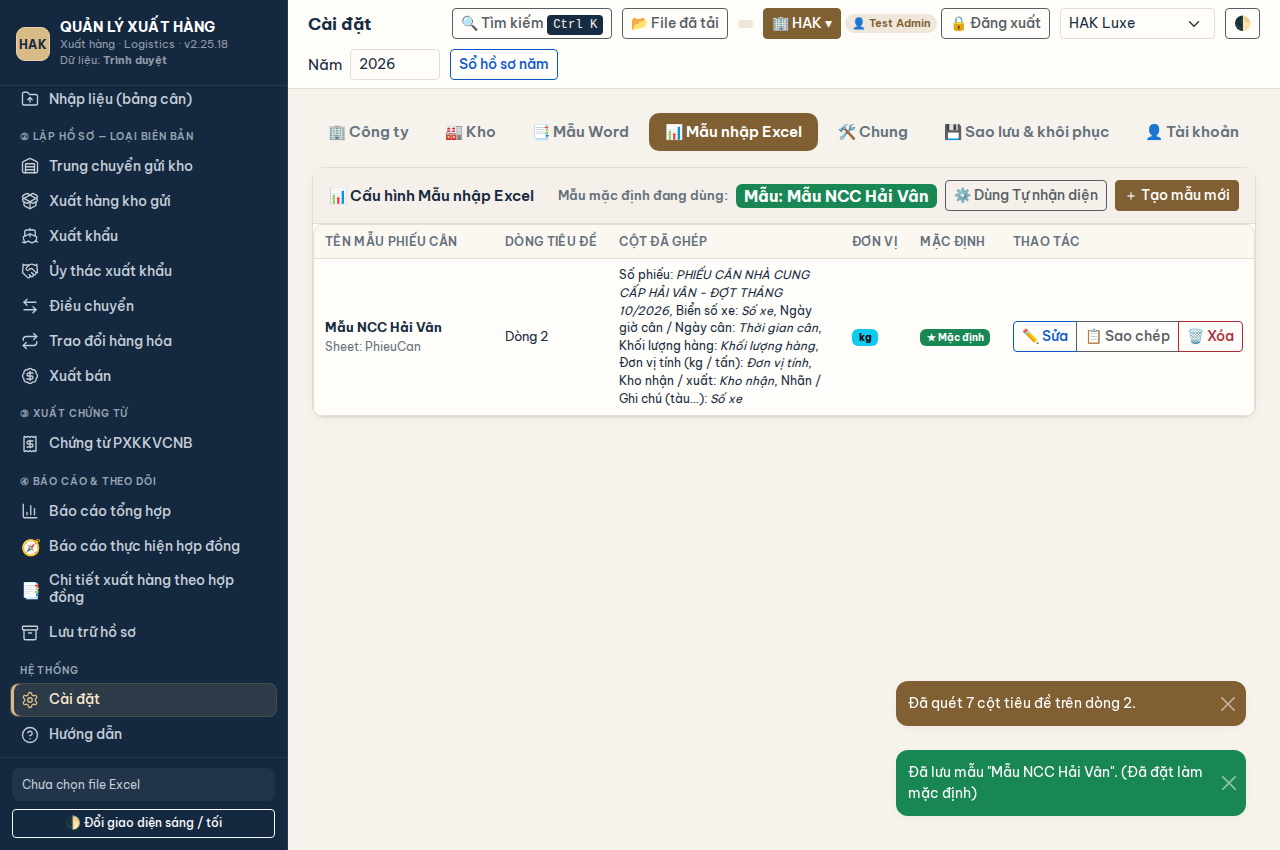
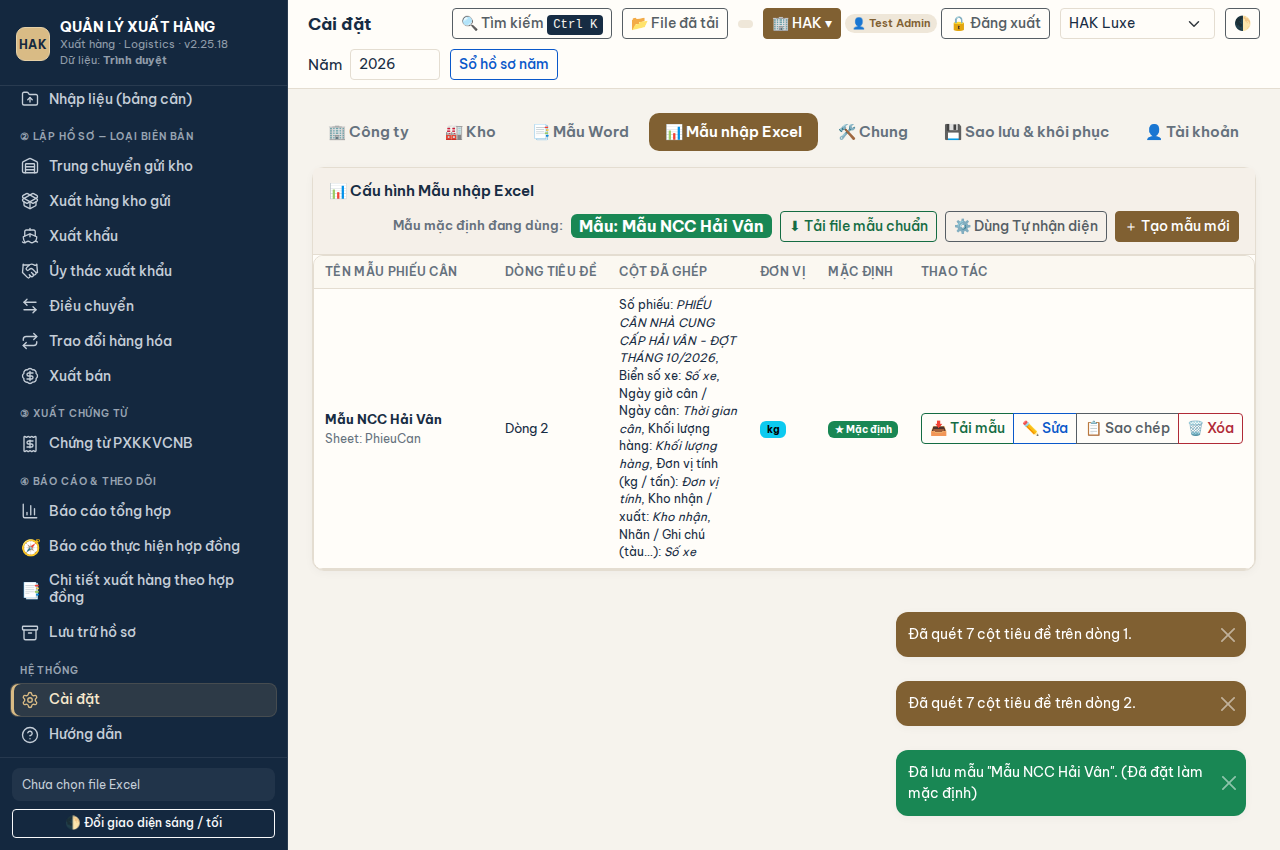
feat(excel): tự động xuất và tải file Excel mẫu (.xlsx) theo cấu hình mẫu mới

diff --git a/app/js/excel-template.js b/app/js/excel-template.js
@@ -396,7 +396,7 @@
         '            <th>Cột đã ghép</th>' +
         '            <th>Đơn vị</th>' +
         '            <th>Mặc định</th>' +
-        '            <th style="min-width:210px">Thao tác</th>' +
+        '            <th style="min-width:280px">Thao tác</th>' +
         '          </tr>' +
         '        </thead>' +
         '        <tbody id="tplTableBody">';
@@ -440,6 +440,9 @@
             '</td>' +
             '  <td>' +
             '    <div class="btn-group btn-group-sm">' +
+            '      <button class="btn btn-outline-success btn-tpl-dl" data-id="' +
+            t.id +
+            '" title="Tải file Excel mẫu (.xlsx) theo đúng các cột của mẫu này">📥 Tải mẫu</button>' +
             '      <button class="btn btn-outline-primary btn-tpl-edit" data-id="' +
             t.id +
             '" title="Sửa mẫu">✏ Sửa</button>' +
@@ -495,6 +498,18 @@
           const t = this.get(id);
           HAK.UI.toast('Đã đặt "' + (t ? t.name : '') + '" làm mẫu mặc định.', 'success');
           this.renderUI();
+        });
+      });
+
+      el.querySelectorAll('.btn-tpl-dl').forEach((btn) => {
+        btn.addEventListener('click', async () => {
+          const id = btn.getAttribute('data-id');
+          try {
+            await this.downloadTemplateFile(id);
+            HAK.UI.toast('Đang tạo và tải file Excel mẫu...', 'success');
+          } catch (e) {
+            HAK.UI.toast('Lỗi tải file mẫu: ' + e.message, 'error');
+          }
         });
       });
 
@@ -702,8 +717,9 @@
         '    </div>' +
         '  </div>' +
         // Bước 4 & 5: Lưu & Đặt mặc định
-        '  <div class="d-flex align-items-center gap-2">' +
+        '  <div class="d-flex flex-wrap align-items-center gap-2">' +
         '    <button class="btn btn-primary" id="wizBtnSave" type="button">💾 Lưu mẫu</button>' +
+        '    <button class="btn btn-outline-success" id="wizBtnDownloadTpl" type="button" title="Tải file Excel mẫu (.xlsx) theo cấu hình các cột đang thiết lập">📥 Tải file mẫu này</button>' +
         '    <button class="btn btn-outline-secondary" id="wizBtnCancel" type="button">Hủy</button>' +
         '    <div id="wizSaveMsg" class="small ms-2"></div>' +
         '  </div>' +
@@ -783,6 +799,19 @@
       if (btnSave) {
         btnSave.addEventListener('click', () => {
           this.saveWizard();
+        });
+      }
+
+      const btnDownloadTpl = body.querySelector('#wizBtnDownloadTpl');
+      if (btnDownloadTpl) {
+        btnDownloadTpl.addEventListener('click', async () => {
+          const cfg = this.getWizardConfig();
+          try {
+            await this.downloadTemplateFile(cfg);
+            HAK.UI.toast('Đang tạo và tải file Excel mẫu...', 'success');
+          } catch (e) {
+            HAK.UI.toast('Lỗi tải file mẫu: ' + e.message, 'error');
+          }
         });
       }
 
@@ -1061,6 +1090,215 @@
       } catch (err) {
         HAK.UI.toast('Không thể lưu: ' + err.message, 'error');
       }
+    },
+
+    buildTemplateWorkbook(template) {
+      const X = root.XLSX;
+      if (!X || !X.utils) throw new Error('Thư viện XLSX chưa được nạp.');
+
+      const tpl = template || {};
+      const sheetTitle = (tpl.sheet || 'BANG CAN').trim() || 'BANG CAN';
+      const headerRowIdx = Math.max(1, parseInt(tpl.headerRow, 10) || 1);
+      const isTan = tpl.fallbackUnit === 'tan';
+      const unitStr = isTan ? 'tấn' : 'kg';
+
+      const headerNames = tpl.headerNames || {};
+      const columns = tpl.columns || {};
+      const mappedEntries = Object.entries(headerNames).filter(([, name]) => name && String(name).trim());
+
+      let maxColIdx = -1;
+      mappedEntries.forEach(([key]) => {
+        if (typeof columns[key] === 'number' && columns[key] >= 0) {
+          if (columns[key] > maxColIdx) maxColIdx = columns[key];
+        }
+      });
+
+      const headerRowArr = [];
+      if (maxColIdx >= 0) {
+        for (let c = 0; c <= maxColIdx; c++) headerRowArr.push('');
+        mappedEntries.forEach(([key, name]) => {
+          const col = columns[key];
+          if (typeof col === 'number' && col >= 0) {
+            headerRowArr[col] = String(name).trim();
+          }
+        });
+      } else {
+        TEMPLATE_FIELDS.forEach((f) => {
+          if (headerNames[f.key]) headerRowArr.push(headerNames[f.key]);
+        });
+        if (!headerRowArr.length) {
+          headerRowArr.push('Số phiếu', 'Biển số', 'Ngày cân', 'Khối lượng hàng', 'Đơn vị tính', 'Kho', 'Ghi chú');
+        }
+      }
+
+      const sheet1Data = [];
+      for (let r = 1; r < headerRowIdx; r++) {
+        if (r === 1) {
+          sheet1Data.push(['BẢNG KÊ PHIẾU CÂN - MẪU: ' + String(tpl.name || 'MẪU CHUẨN').toUpperCase()]);
+        } else {
+          sheet1Data.push([]);
+        }
+      }
+      sheet1Data.push(headerRowArr);
+
+      const sampleRowsData = [
+        {
+          ticket: '00101',
+          plate: '51C-123.45',
+          date: '26/11/2026 08:30',
+          tare: isTan ? 12.5 : 12500,
+          gross: isTan ? 28.0 : 28000,
+          net: isTan ? 15.5 : 15500,
+          unit: unitStr,
+          wh: 'Kho A',
+          note: 'Xuất kho đợt 1',
+          driver: 'Nguyễn Văn An',
+          carrier: 'HAK-VC01',
+        },
+        {
+          ticket: '00102',
+          plate: '60A-987.65',
+          date: '26/11/2026 09:15',
+          tare: isTan ? 11.2 : 11200,
+          gross: isTan ? 25.4 : 25400,
+          net: isTan ? 14.2 : 14200,
+          unit: unitStr,
+          wh: 'Kho B',
+          note: 'Hàng xuất khẩu',
+          driver: 'Trần Văn Bình',
+          carrier: 'HAK-VC02',
+        },
+        {
+          ticket: '00103',
+          plate: '72B-456.78',
+          date: '26/11/2026 10:00',
+          tare: isTan ? 13.0 : 13000,
+          gross: isTan ? 31.0 : 31000,
+          net: isTan ? 18.0 : 18000,
+          unit: unitStr,
+          wh: 'Kho C',
+          note: 'Niêm chì nguyên vẹn',
+          driver: 'Lê Hoàng Cường',
+          carrier: 'HAK-VC01',
+        },
+      ];
+
+      sampleRowsData.forEach((sampleItem) => {
+        const rowArr = [];
+        if (maxColIdx >= 0) {
+          for (let c = 0; c <= maxColIdx; c++) rowArr.push('');
+          mappedEntries.forEach(([key]) => {
+            const col = columns[key];
+            if (typeof col === 'number' && col >= 0) {
+              rowArr[col] = sampleItem[key] !== undefined ? sampleItem[key] : '';
+            }
+          });
+        } else {
+          TEMPLATE_FIELDS.forEach((f) => {
+            if (headerNames[f.key]) {
+              rowArr.push(sampleItem[f.key] !== undefined ? sampleItem[f.key] : '');
+            }
+          });
+        }
+        sheet1Data.push(rowArr);
+      });
+
+      const wb = X.utils.book_new();
+      const ws1 = X.utils.aoa_to_sheet(sheet1Data);
+      X.utils.book_append_sheet(wb, ws1, sheetTitle.slice(0, 31));
+
+      // Sheet 2: DS XE - TAI XE
+      const sheet2Data = [
+        ['STT', 'Biển số xe', 'Họ tên tài xế', 'Số điện thoại', 'Số CCCD', 'Mã ĐVVC', 'Tên đơn vị vận chuyển', 'Ghi chú'],
+        [1, '51C-123.45', 'Nguyễn Văn An', '0903123456', '079085001234', 'HAK-VC01', 'Vận tải HAK Miền Nam', 'Xe 15 tấn thùng kín'],
+        [2, '60A-987.65', 'Trần Văn Bình', '0918765432', '079086002345', 'HAK-VC02', 'Vận tải Đồng Nai Express', 'Xe 15 tấn'],
+        [3, '72B-456.78', 'Lê Hoàng Cường', '0987654321', '079087003456', 'HAK-VC01', 'Vận tải HAK Miền Nam', 'Xe 18 tấn bạt'],
+      ];
+      const ws2 = X.utils.aoa_to_sheet(sheet2Data);
+      X.utils.book_append_sheet(wb, ws2, 'DS XE - TAI XE');
+
+      // Sheet 3: HUONG DAN
+      const sheet3Data = [
+        ['HƯỚNG DẪN SỬ DỤNG FILE MẪU EXCEL NHẬP PHIẾU CÂN HAK'],
+        [''],
+        ['1. THÔNG TIN CẤU HÌNH MẪU ÁP DỤNG:'],
+        ['- Tên mẫu cấu hình:', tpl.name || 'Mặc định'],
+        ['- Sheet dữ liệu:', sheetTitle],
+        ['- Dòng tiêu đề:', 'Dòng số ' + headerRowIdx],
+        ['- Đơn vị tính dự phòng:', unitStr],
+        [''],
+        ['2. NGUYÊN TẮC NHẬP LIỆU:'],
+        ['- Điền dữ liệu từ dòng kế tiếp ngay sau dòng tiêu đề.'],
+        ['- Cột biển số xe phải có đủ để ứng dụng nhận diện và gán xe.'],
+        ['- Khối lượng có thể ghi số kg hoặc số tấn theo đúng đơn vị cấu hình.'],
+        ['- Mã số phiếu có thể chứa các số 0 ở đầu (ví dụ: 00101, 00102), hệ thống sẽ giữ nguyên vẹn.'],
+        ['- Sheet "DS XE - TAI XE" để khai báo trước tài xế, SĐT và ĐVVC của từng biển số.'],
+        [''],
+        ['3. ĐƯA VÀO HỆ THỐNG:'],
+        ['- Lưu file Excel này sau khi trạm cân hoặc thủ kho đã điền xong.'],
+        ['- Mở trang Nhập liệu của phần mềm Quản lý xuất hàng HAK và kéo thả file vào ô đợt cân.'],
+        ['- Hệ thống sẽ tự động đối chiếu với cấu hình mẫu "' + (tpl.name || '') + '" để đọc chính xác 100%.'],
+      ];
+      const ws3 = X.utils.aoa_to_sheet(sheet3Data);
+      X.utils.book_append_sheet(wb, ws3, 'HUONG DAN');
+
+      return wb;
+    },
+
+    async downloadTemplateFile(target) {
+      let tpl = null;
+      if (typeof target === 'string') {
+        tpl = this.get(target);
+      } else if (target && typeof target === 'object') {
+        tpl = target;
+      }
+
+      if (!tpl) {
+        if (typeof root.downloadSampleXlsx === 'function') {
+          return root.downloadSampleXlsx();
+        }
+        throw new Error('Không tìm thấy mẫu hoặc hàm tải mẫu chuẩn.');
+      }
+
+      const X = root.XLSX;
+      if (!X || !X.utils || !X.write) {
+        throw new Error('Thư viện XLSX chưa sẵn sàng để tạo file mẫu.');
+      }
+
+      const wb = this.buildTemplateWorkbook(tpl);
+      const wbout = X.write(wb, { bookType: 'xlsx', type: 'array' });
+      const blob = new Blob([wbout], {
+        type: 'application/vnd.openxmlformats-officedocument.spreadsheetml.sheet',
+      });
+
+      const slug =
+        String(tpl.name || 'Mau_Nhap')
+          .normalize('NFD')
+          .replace(/[\u0300-\u036f]/g, '')
+          .replace(/đ/g, 'd')
+          .replace(/Đ/g, 'D')
+          .replace(/[^a-zA-Z0-9_-]+/g, '_')
+          .replace(/^_+|_+$/g, '') || 'Mau_Nhap';
+      const fileName = 'Mau_PhieuCan_' + slug + '.xlsx';
+
+      if (HAK.Word && HAK.Word.Files && typeof HAK.Word.Files.saveBlob === 'function') {
+        return await HAK.Word.Files.saveBlob(blob, fileName);
+      }
+
+      if (typeof document !== 'undefined') {
+        const url = URL.createObjectURL(blob);
+        const a = document.createElement('a');
+        a.href = url;
+        a.download = fileName;
+        document.body.appendChild(a);
+        a.click();
+        setTimeout(() => {
+          document.body.removeChild(a);
+          URL.revokeObjectURL(url);
+        }, 500);
+        return true;
+      }
+      return blob;
     },
   };
 
